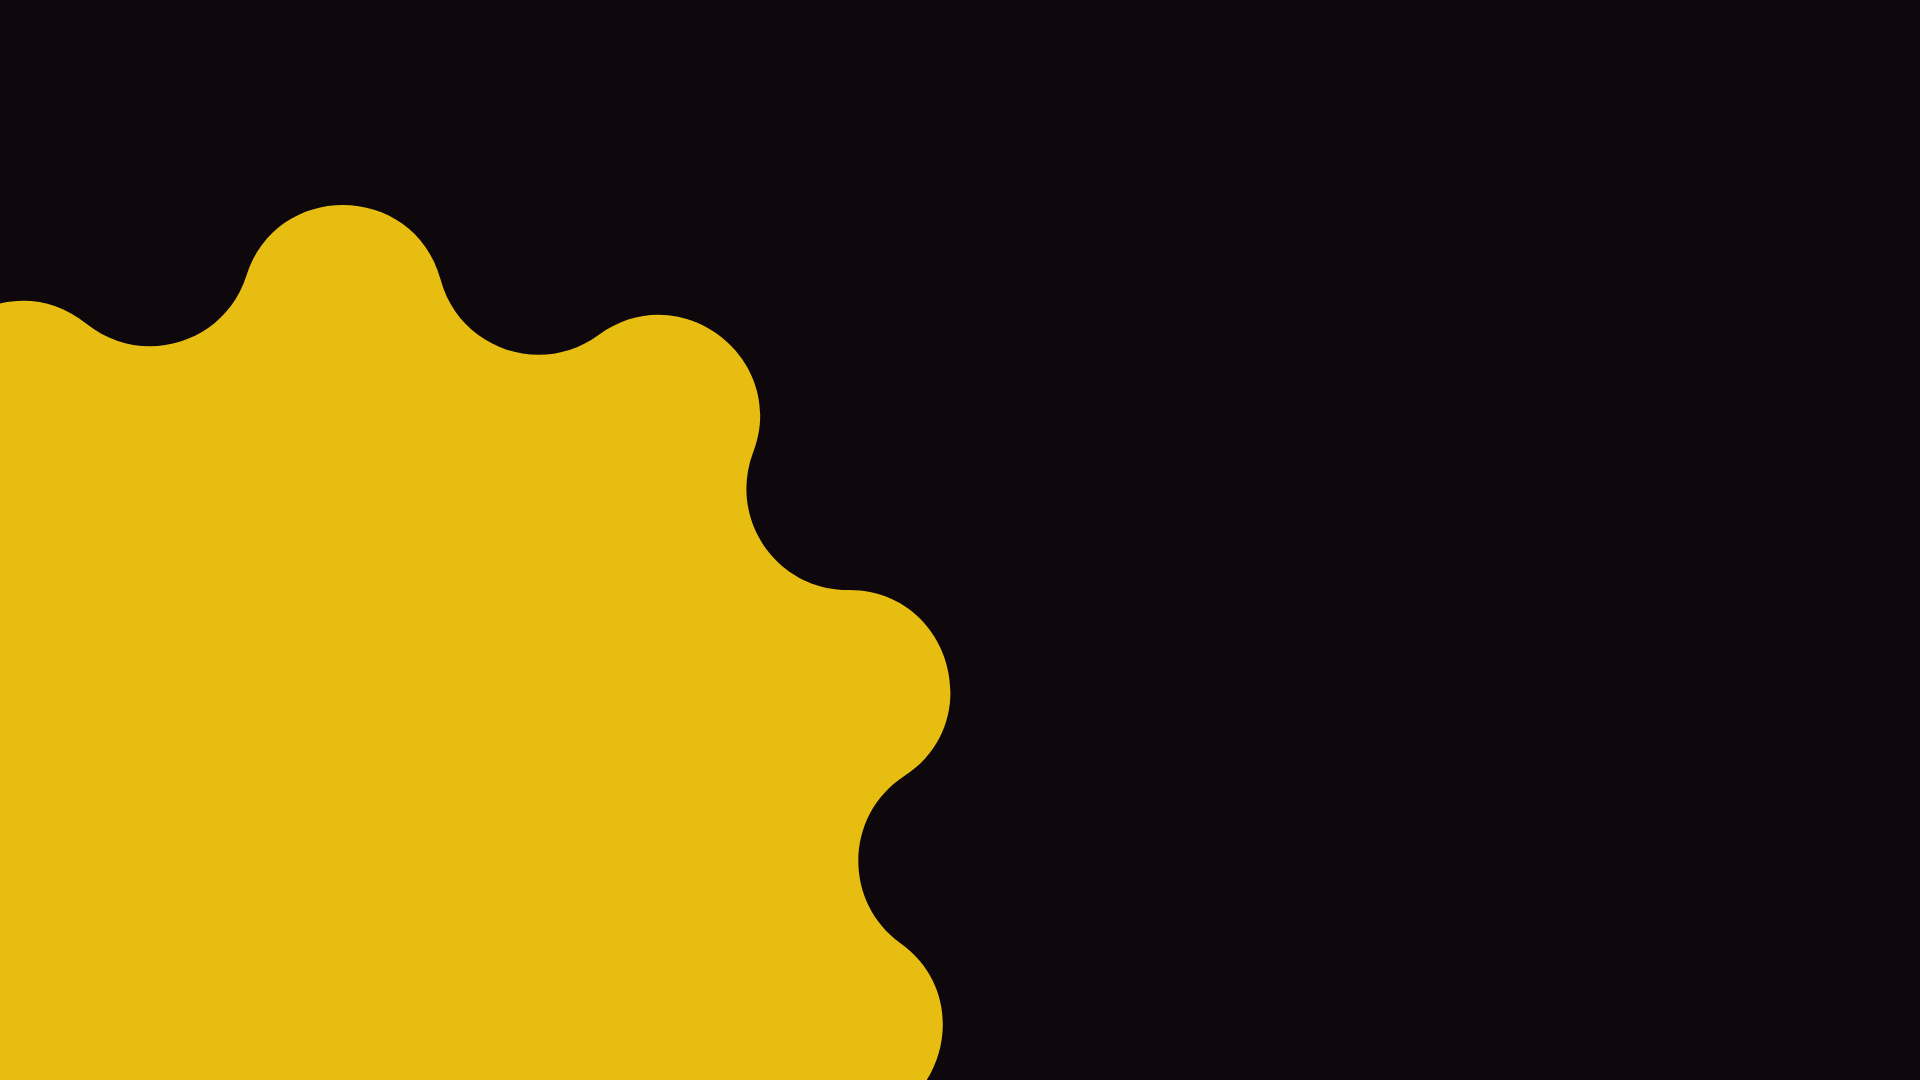
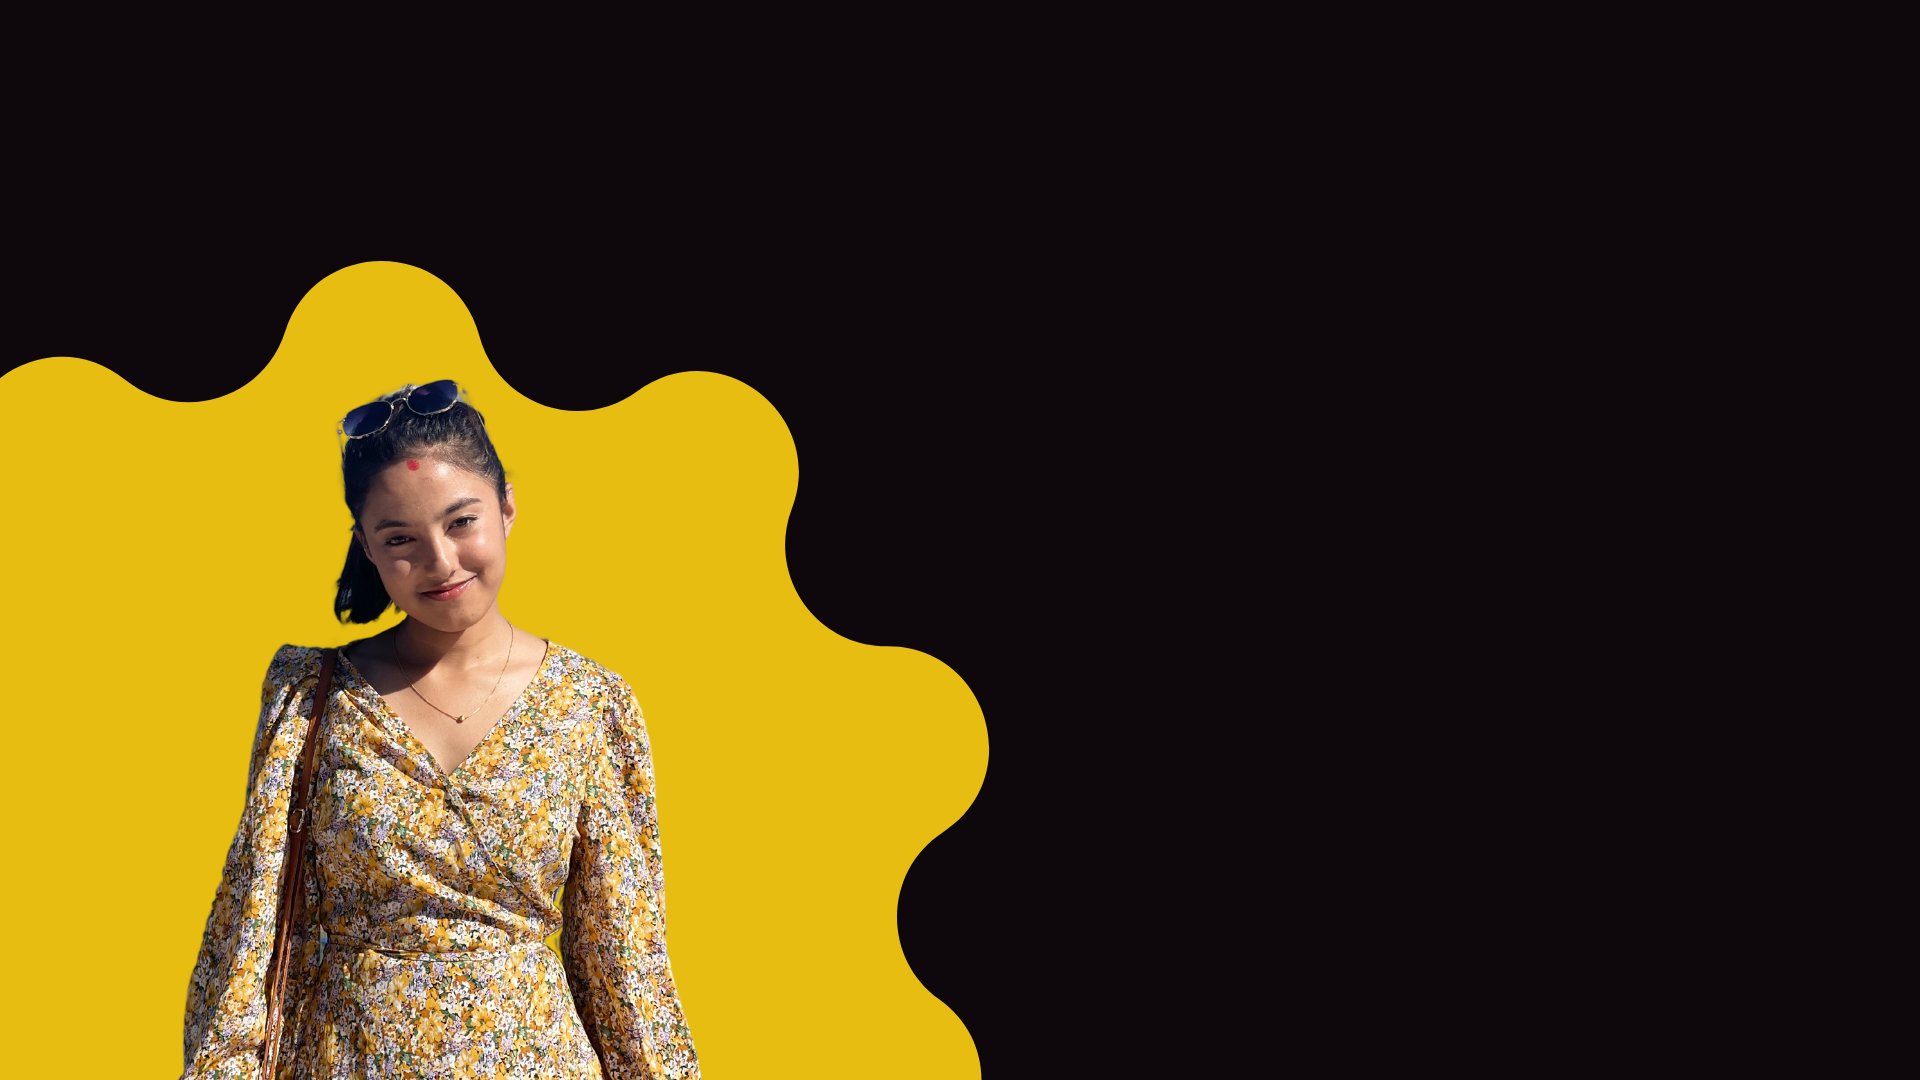
navigation bar edited, changed background image

Changed region(s): [[0.0938, 0.275, 0.5312, 1.0], [0.0, 0.1833, 0.25, 0.3972], [0.4688, 0.8861, 0.5312, 1.0]]

diff --git a/style.css b/style.css
@@ -1,39 +1,71 @@
+*{
+    margin: 0;
+    padding: 0;
+}
 body{
+    overflow: hidden;
     background-image: url(background.png);
     background-size: 100%;
     background-repeat: no-repeat;
     /* margin: auto; */
-    width: 50%
-}
+    width: 100%
 
-.top-level a{
-    text-decoration: none;
-    color: white;
-    font-family: 'Lucida Sans', 'Lucida Sans Regular', 'Lucida Grande', 'Lucida Sans Unicode', Geneva, Verdana, sans-serif;
-}
-    
 
-.toolbar{
+}
+.head{
     display: flex;
     justify-content: space-between;
-    display: inline-block;
-    justify-content: center;
-    
-    list-style: none;
-    
 }
-.toolbar li{
-    display: inline;
-    justify-content: center ;
-}
-
-.toolbar li a{
-    display: inline;
-    justify-content: center;
-    color: white;
-    margin-left: 10px;
+a{
     text-decoration: none;
-    list-style: none;
+    flex-direction: column;
+    align-items: center;
+    color: white;
 
+}
+
+ul li a{
+    margin-right: 20px;
+    justify-content: center;
+    padding: 10px;
+
+}
+.mylogo a{
+    margin-top: 20px;
+}
+ul li{
+    list-style-type: none;
+    display: inline;
     
+}
+
+ul{
+    display: inline-block;
+}
+.toolbar{
+    margin-left: 20rem;
+}
+.simran{
+    margin-top: 20px;
+    font-size: 20px;
+}
+div img{
+    width: 30%;
+    height: auto;
+}
+.information h1{
+    color: white;
+    font-size: 60px;
+}
+.information{
+    position: relative;
+    margin-left: 800px;
+    margin-top: 100px;
+    font-size: 50px;
+}
+.information h2{
+    padding-right: 30px;
+    color: wheat;
+    display: flex;
+    flex-direction: col;
 }

diff --git a/index.html b/index.html
@@ -7,10 +7,9 @@
     <title>My Portfolio</title>
 </head>
 <body>
-    <header class="top-level">
-        <div class="mylogo">
-            <a href="index.html">SIMRAN KARKI</a>
-     
+    <header class="head">
+    <div class="mylogo">
+            <a class="simran" href="index.html">SIMRAN</a>
         <div class="toolbar">
             <ul>
                 <li><a href="index.html"> HOME </a></li>
@@ -19,10 +18,12 @@
                 <li><a href="videodemo.html"> VIDEO-DEMO </a></li>
                 <li><a href="sitereport.html"> SITE-REPORT </a></li>
             </ul>
-        </div>
-        </div>
-
-    </header>
-    
+         </div>
+    </div>
+</header>
+<div class="information">
+    <h1 class="main">HI! I am</h1>
+    <h2>Simram Karki</h2>
+</div>
 </body>
 </html>
